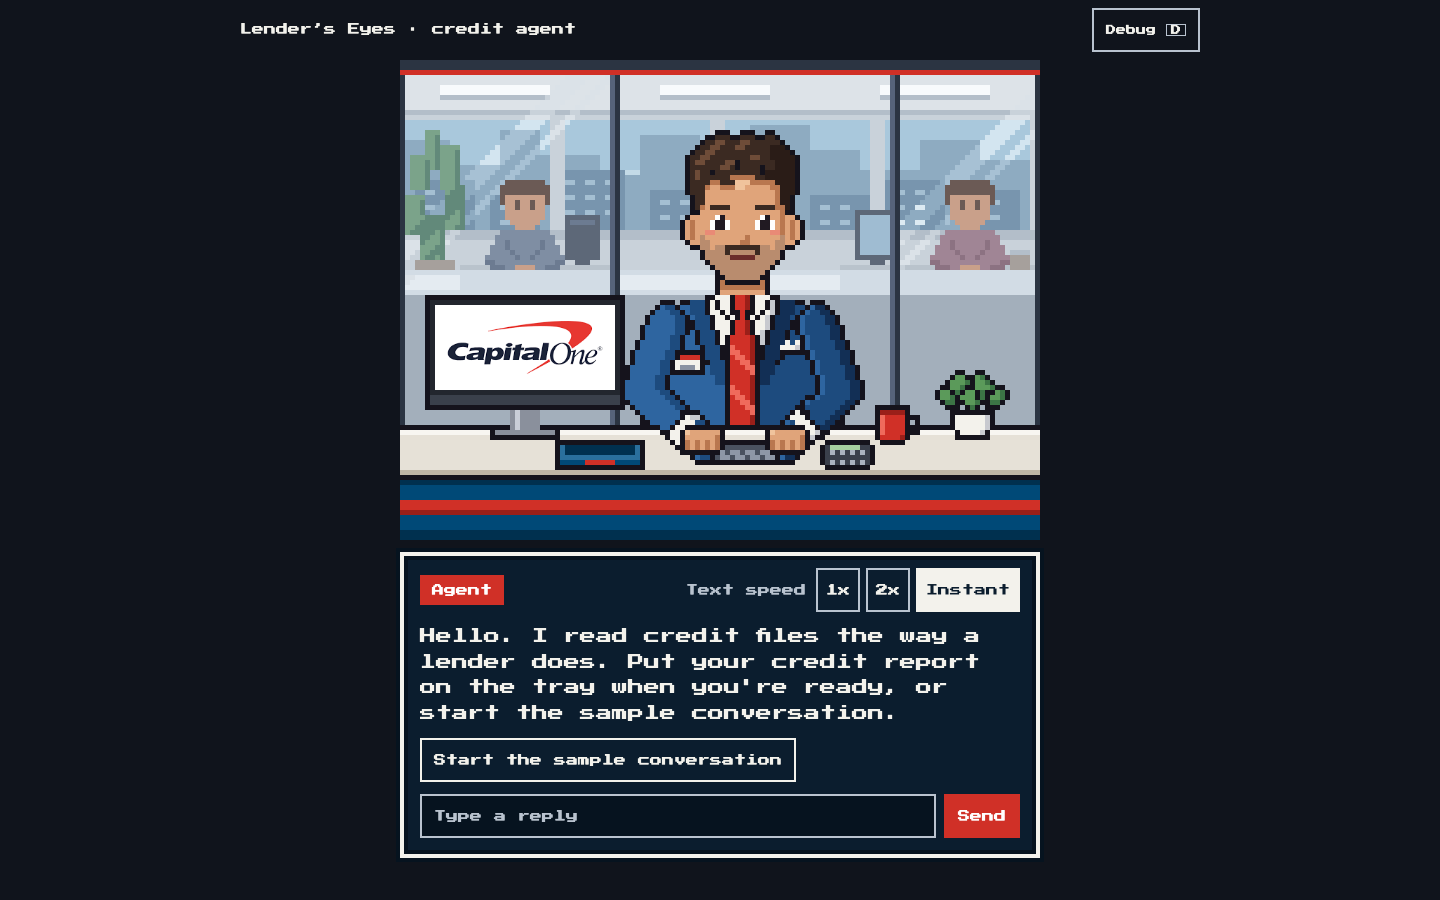
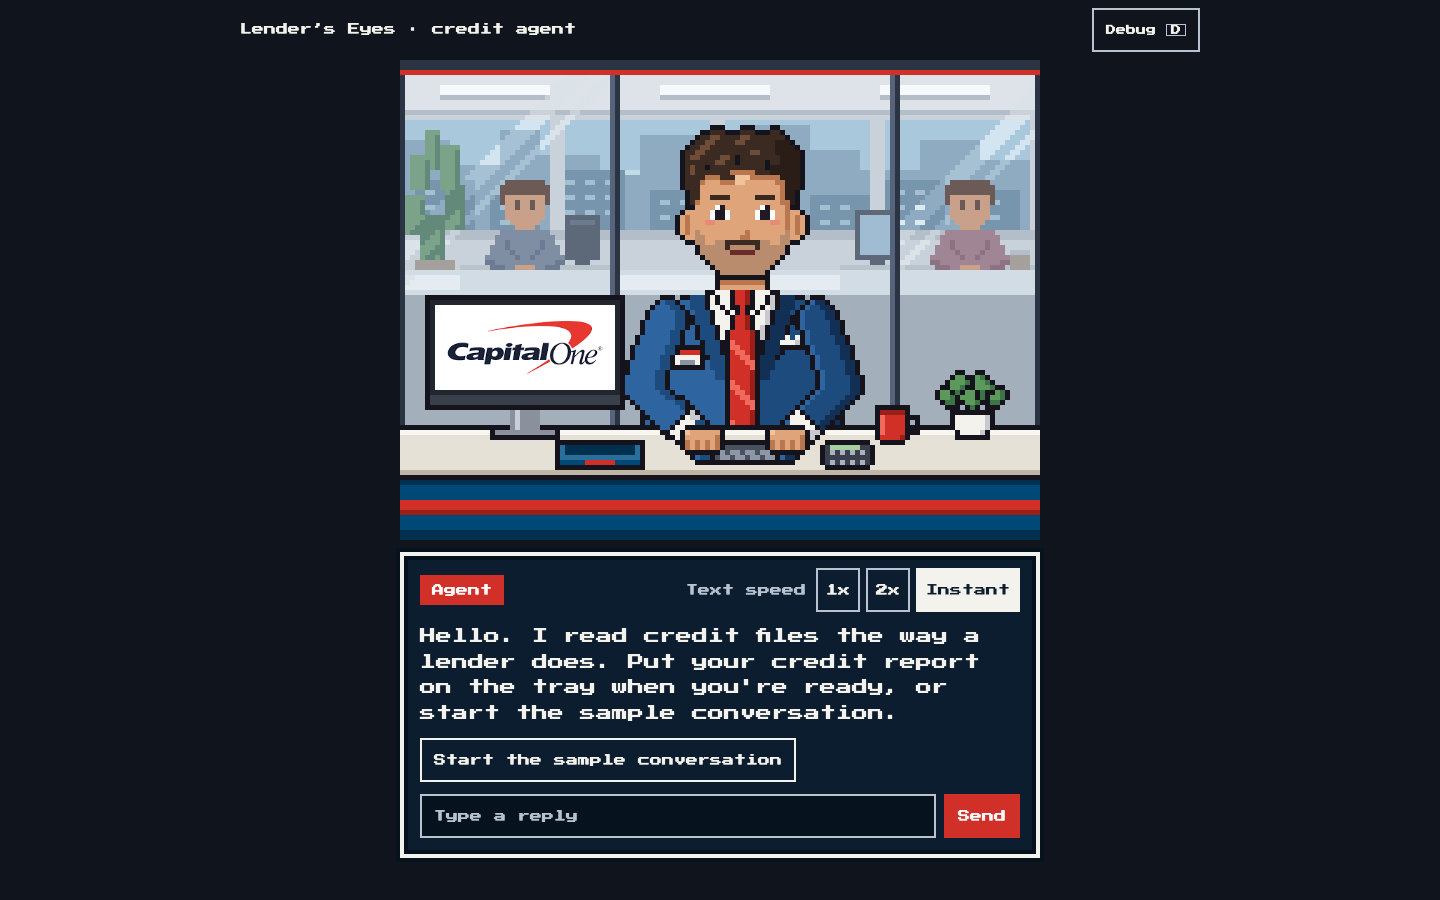
111 follow-up: new contact sheets and screens for the wider face, ART-GUIDE numbers, RESULT follow-up entry

Changed region(s): [[0.4375, 0.1244, 0.5938, 0.4978]]

diff --git a/app/npc-concept/ART-GUIDE.md b/app/npc-concept/ART-GUIDE.md
@@ -31,7 +31,7 @@ npc.current?.setState('reading'); npc.current?.emote('concerned'); npc.current?.
 ```
 `npc.css` (imported by `index.ts`) uses `npc-` class names only, and its class selectors win over Tailwind's preflight. `src/App.tsx` is a full example, including the sample conversation runner.
 
-**API since 111:** the facial hair value `'stubble'` is now called `'moustache-stubble'` (it always meant the moustache plus stubble) and is the default; `FACIAL_HAIR` is `['none', 'moustache', 'moustache-stubble']`. `setFacialHair()` and the `facialHair` prop still accept `'stubble'` and map it to `'moustache-stubble'`; only code that typed `'stubble'` as a `FacialHair` needs the new name. New export `DEFAULT_FACIAL_HAIR`. The background default stays `'day'`. Geometry moved (see Native sizes): the desk, its props and the agent's body sit 3 px lower (`COUNTER_TOP_Y` 73, `AGENT_ORIGIN` (44, 18), `TRAY`, `CALC`, `KEYBOARD`, `PAPER_*`, `MONITOR`, `SCREEN`, `MUG`, `PLANT` all +3 in y), and the head rises 5 rows above the character box (`HEAD_POS` (12, -5)). Code that reads those constants (as `NpcScene` does for the hotspots and the logo) needs no change.
+**API since 111:** the facial hair value `'stubble'` is now called `'moustache-stubble'` (it always meant the moustache plus stubble) and is the default; `FACIAL_HAIR` is `['none', 'moustache', 'moustache-stubble']`. `setFacialHair()` and the `facialHair` prop still accept `'stubble'` and map it to `'moustache-stubble'`; only code that typed `'stubble'` as a `FacialHair` needs the new name. New export `DEFAULT_FACIAL_HAIR`. The background default stays `'day'`. Geometry moved (see Native sizes): the desk, its props and the agent's body sit 3 px lower (`COUNTER_TOP_Y` 73, `AGENT_ORIGIN` (44, 18), `TRAY`, `CALC`, `KEYBOARD`, `PAPER_*`, `MONITOR`, `SCREEN`, `MUG`, `PLANT` all +3 in y), and the head rises 5 rows above the character box (`HEAD_POS` (11, -5); the head is 27 wide, centre column 13). Code that reads those constants (as `NpcScene` does for the hotspots and the logo) needs no change.
 
 **API since 110:** nothing removed or renamed. Added, all optional: `NpcScene` props `facialHair` (`'none' | 'moustache' | 'stubble'`, default `'none'`) and `background` (`'day' | 'evening'`, default `'day'`); `NpcHandle.setFacialHair()` and `setBackground()`; `NpcSnapshot.facialHair` and `.background`; exports `FACIAL_HAIR`, `BACKGROUNDS`, `BACKGROUND_NAMES` and their types. `NATIVE_W` x `NATIVE_H` is now 128 x 96 (still 4:3), so the scene is chunkier at the same screen size. `wordmarkSrc` keeps its name; the logo now shows on the desk monitor.
 
@@ -54,7 +54,7 @@ Target: indie pixel-art avatars (the user's style refs, kept locally in `refs/`,
 
 **Facial hair** is its own layer with three settings: `moustache-stubble` (default since 111, option C: the moustache plus light stubble, a flat darker skin-tone shape along the jaw that widens towards the chin, over the chin and around the mouth, no dither), `moustache` (a neat bold moustache over the upper lip), `none` (clean-shaven).
 
-**Head proportions** (since 111, copied from style-ref-1, not the character): the skin area without ears is 17 wide and 21 tall (about 4:5); hair adds 8 rows of volume on top, so the head is 25 x 31. Measured as a share of the face height (hairline to chin): eye line 0.45 (a full forehead above), nose about 0.62, mouth line 0.79; ears sit at eye-to-nose height; the jaw runs straight down to the mouth line and then tapers to a 7 px chin; two rows of neck show above the collar. Style-ref-1 measures about 0.95 (0.85 from the temple hairline) for width to height, eye line 0.39, mouth line 0.77: our face is a little narrower, as the 111 handoff asked for 4:5. The local-only `screens/compare-face.png` (gitignored, it embeds the ref) puts the two side by side at the same head height.
+**Head proportions** (since 111, copied from style-ref-1, not the character): the skin area without ears is 19 wide and 21 tall (0.90 width to height); hair adds 8 rows of volume on top, so the head is 27 x 31. Measured as a share of the face height (hairline to chin): eye line 0.40 (a full forehead above), nose about 0.62, mouth line 0.79; ears sit at eye-to-nose height; the jaw runs straight down to the mouth line and then tapers to a 9 px chin; two rows of neck show above the collar. Style-ref-1 measures about 0.95 (0.85 from the temple hairline) for width to height, eye line 0.39, mouth line 0.77. (The first 111 pass was 17 wide with the eye line at 0.45; the user asked for about 0.9 and 0.40, like the ref.) The local-only `screens/compare-face.png` (gitignored, it embeds the ref) puts the two side by side at the same head height.
 
 **The scene:** the agent sits behind a desk in front of a glass wall. Behind the glass: a ceiling with three light panels, a back wall with a long window band (sky and a two-row city), two back desks, two colleagues seated at them facing us (since 111: rounded shoulders, upper arms split from the body by a seam in a shade tone, elbows out and forearms on the desk with the hands together; A has a monitor beside them, B a mug by the right hand), a tall plant in the back left corner. The glass has a top rail with a brand red line, two slim dark mullions with a light edge, a frosted band just under the back desk tops (translucent: what is behind shows as two soft tones) and two pairs of diagonal reflections (a wide and a thin band, done as a lighter-colour map, not a paint stroke). On the desk: a slim monitor at the left showing the official logo, the navy in-tray (drop zone), the keyboard under his hands, the calculator, a red mug and a small plant at the right. The desk top is light with a thin highlight; the front panel is navy with a red stripe and kept short (13 rows since 111, was 16).
 
@@ -63,12 +63,12 @@ Target: indie pixel-art avatars (the user's style refs, kept locally in `refs/`,
 |---|---|---|
 | Canvas | 128 x 96 (4:3) | Whole-number device scale (`useIntegerScale`); iPhone 15 portrait 9x (1152 x 864 device px = 384 x 288 CSS px), desktop 1440 x 900 5x (640 x 480) at dpr 1 |
 | Character box | 49 x 60 | Top-left at scene (44, 18). The head rises 5 rows above it. Visible figure head to desk: y 13 to 73 |
-| Head | 25 x 31 | Box (12, -5), centre column 12. Tufts rows 0 to 1, hair to row 8 (fringe to 10, sideburns to 15), face skin rows 9 to 29 and columns 4 to 20, brows row 15, eyes 17 to 19, ears 17 to 22, nose 21 to 22, moustache 23 to 24, mouth line 25, chin 29, chin outline 30 (on torso row 1, so torso rows 2 to 3 are the visible neck) |
-| Eyes layer | 13 x 4 | Head (6, 16). Row 0 is empty headroom; each eye 4 x 3 on rows 1 to 3 (2 x 3 iris with a highlight top-left, sclera both sides); left eye x 0-3, right eye x 9-12 |
-| Eyebrows layer | 13 x 3 | Head (6, 14). 4 wide, 1 px, neutral on row 1 |
-| Mouth layer | 9 x 4 | Head (8, 23), main line on row 2 |
-| Facial hair | stubble 25 x 31 (head-sized), moustache 9 x 2 | Stubble at head (0, 0) under the eyes and mouth; moustache at head (8, 23) over the mouth |
-| Glasses (coach) | 21 x 5 | Head (2, 16): a frame around each eye, temples to the ears |
+| Head | 27 x 31 | Box (11, -5), centre column 13. Tufts rows 0 to 1, hair to row 8 (fringe to 10, sideburns to 15), face skin rows 9 to 29 and columns 4 to 22, brows row 14, eyes 16 to 18, ears 17 to 22, nose 21 to 22, moustache 23 to 24, mouth line 25, chin 29, chin outline 30 (on torso row 1, so torso rows 2 to 3 are the visible neck) |
+| Eyes layer | 13 x 4 | Head (7, 15). Row 0 is empty headroom; each eye 4 x 3 on rows 1 to 3 (2 x 3 iris with a highlight top-left, sclera both sides); left eye x 0-3, right eye x 9-12 |
+| Eyebrows layer | 13 x 3 | Head (7, 13). 4 wide, 1 px, neutral on row 1 |
+| Mouth layer | 9 x 4 | Head (9, 23), main line on row 2 |
+| Facial hair | stubble 27 x 31 (head-sized), moustache 9 x 2 | Stubble at head (0, 0) under the eyes and mouth; moustache at head (9, 23) over the mouth |
+| Glasses (coach) | 21 x 5 | Head (3, 15): a frame around each eye, temples to the ears |
 | Torso | 41 x 36 | Box (4, 24). Shoulder joints at box (9, 33) and (39, 33). Hidden by the desk from torso y 31 |
 | Sleeves | 9 px wide (outline), 7 px fill | Screen-left sleeve `uniformLight` with a 2 px `uniform` rim on the right; screen-right sleeve `uniform` with a 1 px `uniformLight` rim on the left and a 2 px `uniformShade` rim on the right; white cuff 3.5 to 6 px back from the hand, dark hem behind it (skipped where the forearm is too short) |
 | Hands | rest 9x6, grip 8x7, open 11x9, point down 8x10, point right 10x8, flat 10x4 | Centred on the hand point of the arm pose |

diff --git a/handoffs/111-npc-face-proportions.md b/handoffs/111-npc-face-proportions.md
@@ -96,21 +96,35 @@ The user picked option C (moustache with light stubble) and the day background. 
      - `pnpm exec tsc -b` exit 0; `pnpm lint` (oxlint) exit 0.
   - I looked at the iPhone and desktop page screenshots: no overflow or clipping, and the logo sits on the moved monitor.
 - Proportions vs style-ref-1 (as a share of the face height, hairline to chin outline, measured on the ref's pixels: hairline y 104, chin y 239, face 128 px wide):
-  - **Face width to height:** ref 0.95 (0.85 from the temple hairline), ours 17:21 = 0.81, the 4:5 the handoff asked for.
-  - **Eye line:** ref 0.39, ours 0.45.
-  - **Mouth line:** ref 0.77, ours 0.79.
-  - Ours is a little narrower than the ref, and the eyes sit a little lower, nearer the middle as the handoff describes.
+  - **Face width to height:** ref 0.95 (0.85 from the temple hairline). Ours now 19:21 = 0.90; the first pass was 17:21 = 0.81.
+  - **Eye line:** ref 0.39. Ours now 0.40; the first pass was 0.45.
+  - **Mouth line:** ref 0.77, ours 0.79 (unchanged).
 - Reviewer (fresh-context `reviewer` agent on `git diff main...mihael/111`): it found nothing blocking.
   - **Checks it ran:** tsc, lint and build all clean. It parsed every sprite (all rows the right width, all palette chars known), confirmed the geometry move has no stale hard-coded y, confirmed the `'stubble'` alias is the only remaining use of the old name, and found the scope clean.
   - **Fixed:**
     - The coach "glasses on" hand (`toFace2L`) had not moved up with the eyes and landed on the cheek. It is now at the left eye (checked in a render at 300 and 500 ms).
     - Stale comments: eye row 0, the neutral-eyes row in the emote table, and the "pot hidden by the monitor" comment.
   - **Noted:** `default.png` and `iphone-reduced-motion.png` are the same picture, because both are the idle scene with defaults and reduced motion. That is expected.
+- Follow-up 1 (user, 2026-11-07, after the first RESULT): "widen the face to about 0.9 width to height (2 px wider, keep the height) and move the eyes and brows up 1 to 2 px so the eye line sits at about 0.40 of the face height, like style-ref-1".
+  - **Done:**
+    - Face skin is 19 x 21 (columns 4-22).
+    - Head grid is 27 x 31 with centre column 13, at `HEAD_POS` (11, -5), so the centre stays at box x 24.
+    - Ears, hair volume and sideburns moved out 1 px each side. The chin is 9 px (the same taper as before).
+    - Eyes and brows moved up 1 px: eyes on rows 16-18, brows on row 14, eye line 0.40. 2 px would have been 0.36, so 1 px was enough.
+    - Blush sits right under the eyes on row 19.
+    - The eyes, brows, mouth, moustache, stubble and glasses layers were re-placed. The mouth line stays on row 25.
+    - The coach glasses-on hand still lands on the left eye (render at 300 ms).
+  - **Verification (all on the final code):**
+    - `pnpm exec tsc -b` exit 0, `pnpm lint` exit 0.
+    - Contact sheets: `node shots.mjs iphone w-iphone` and `node shots.mjs desktop w-desktop` give 30 frames each. iPhone metrics `{"dpr":3,"cssRect":[5,52,384,288],"canvas":[1152,864],"scrollW":393,"clientW":393}`, console vite lines only. `sheet.py` → `big (3132, 4956)`, `small (1182, 1910)`, desktop `big (2108, 3420)`.
+    - Pixel test: iPhone `state-idle`, `state-greeting`, `state-asking`, `state-coach`, `option-moustache-stubble` and `default`, plus desktop `default`, all report `not flat outside the logo screen: 0`.
+    - iPhone checks: sample conversation `{"result":"done","seconds":34.681,"statesSeen":[8 states],"consoleErrorsAndWarnings":[]}`, reduced motion `{"distinctIdleFramesOver3s":1,"unprintedChars":0}`, all touch targets OK, no horizontal scroll, tray tap opens the picker with no errors.
+    - `screens/compare-face.png` re-made (local only): the eye lines of both faces now meet on the same guide line.
+  - **Screens updated:** `contact-sheet`, `contact-sheet-small`, `contact-sheet-desktop`, `default`, `options`, `backgrounds`, `iphone-page`, `iphone-reply-focused`, `iphone-reduced-motion`, `desktop-1440`. `ART-GUIDE.md` has the new head numbers.
 - Open issues / follow-ups:
-  - If the user wants the face as wide as style-ref-1 (about 0.9), widen the skin to 19 columns. One change in the design script: the per-row `FACE` outline.
   - Not checked on a real iPhone (emulation only), same as 109 and 110.
   - `app/DISCLOSURES.md` got one 111 row (see Files changed); Mihael may want to confirm that when merging.
-  - Follow-ups needed after the first prompt (prompt deltas): none from the user in this session.
+  - Follow-ups needed after the first prompt (prompt deltas): one. The handoff's "about 4:5" for the face was narrower than style-ref-1 itself (about 0.9 to 0.95), and its eye line came out lower than the ref's. Next time, give the target ratios measured on the ref (width to height about 0.9, eye line about 0.40 of the face height) instead of 4:5.
   - Two deviations from the handoff's wording:
     1. Seating the colleagues "at a desk" needed the frosted band moved down 5 px, otherwise it covered their arms.
     2. The handoff's own scope rule kept the gitignore line for `compare-face.png` in `app/npc-concept/.gitignore`, not the root one.
